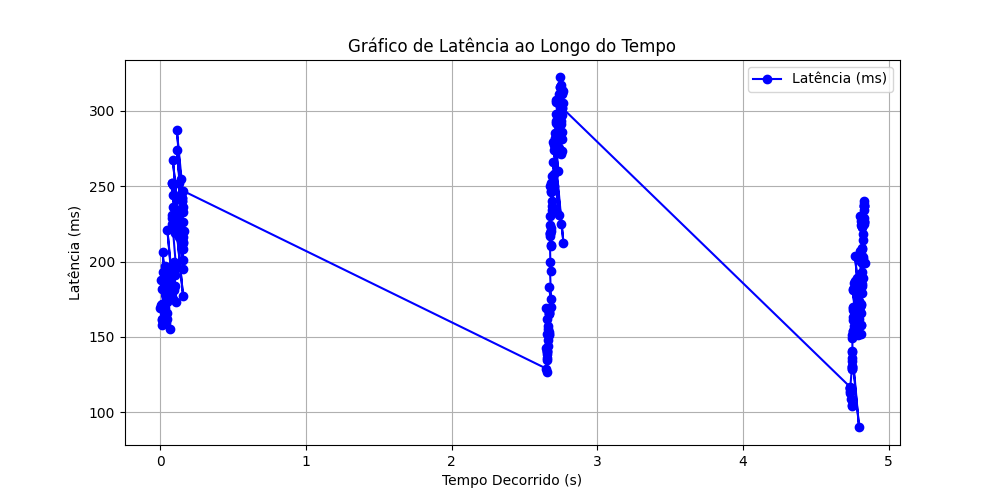
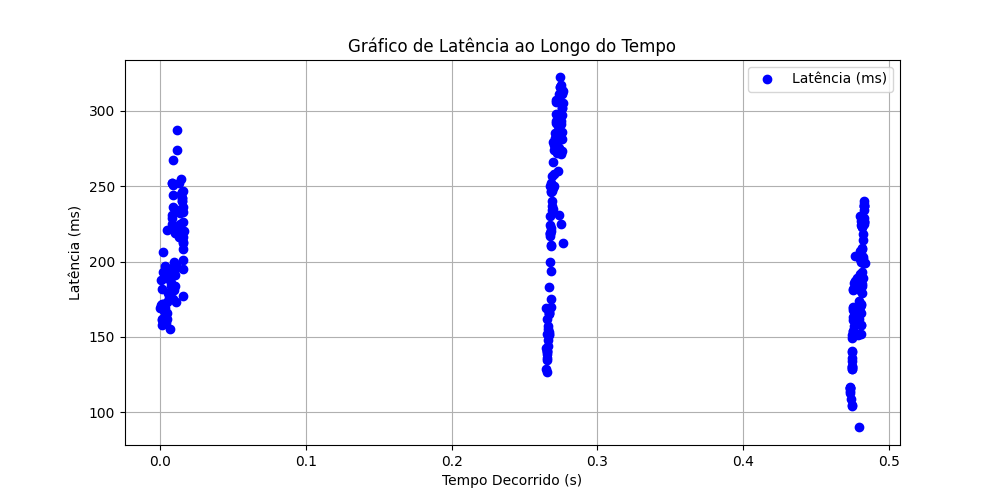
tira os comentario

diff --git a/latencia.py b/latencia.py
@@ -30,7 +30,7 @@ def main():
 
     # Criar o gráfico de linha
     plt.figure(figsize=(10, 5))
-    plt.plot(df["tempo_decorrido"], df["Latency"], marker="o", linestyle="-", color="b", label="Latência (ms)")
+    plt.plot(df["tempo_decorrido"]/10, df["Latency"], marker="o", linestyle="None", color="b", label="Latência (ms)")
 
     # Configurar rótulos e título
     plt.xlabel("Tempo Decorrido (s)")
